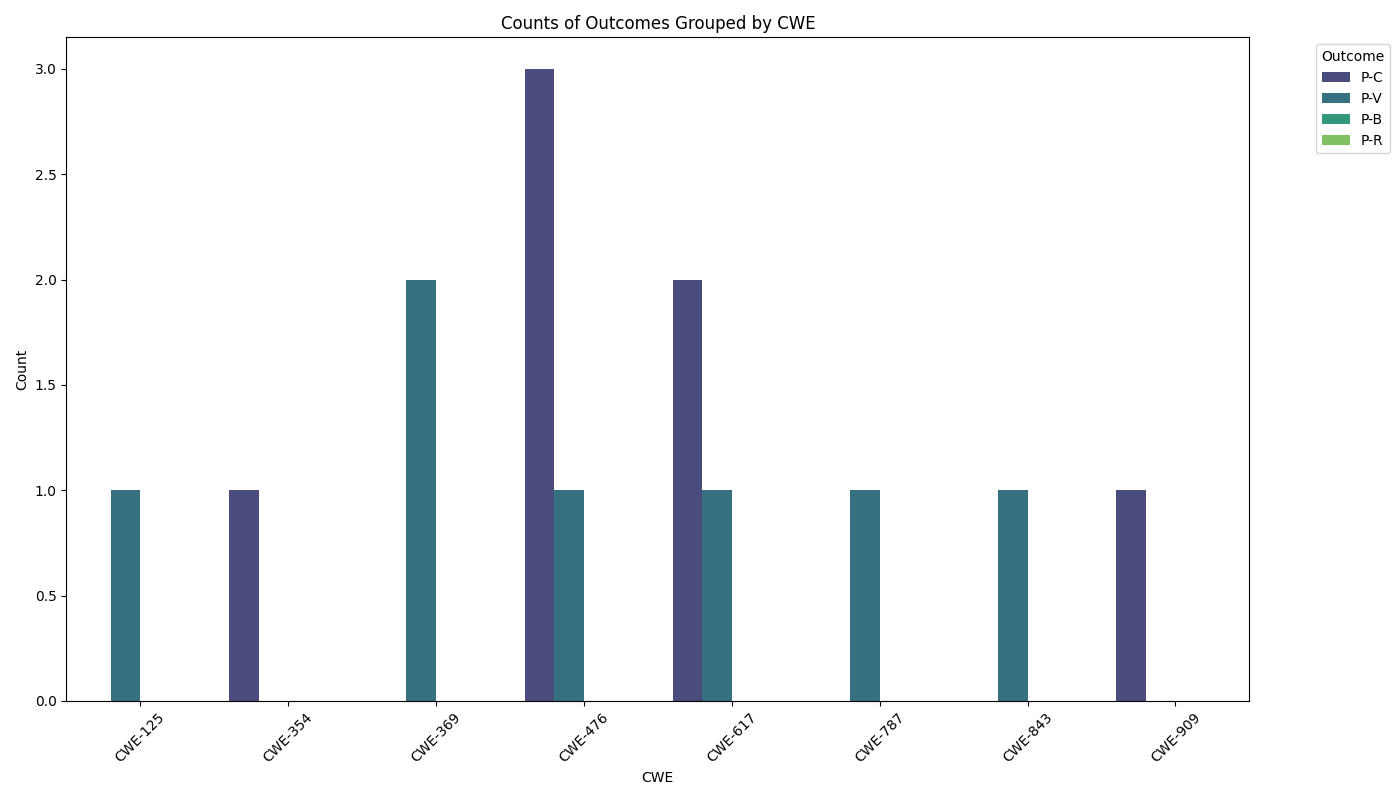
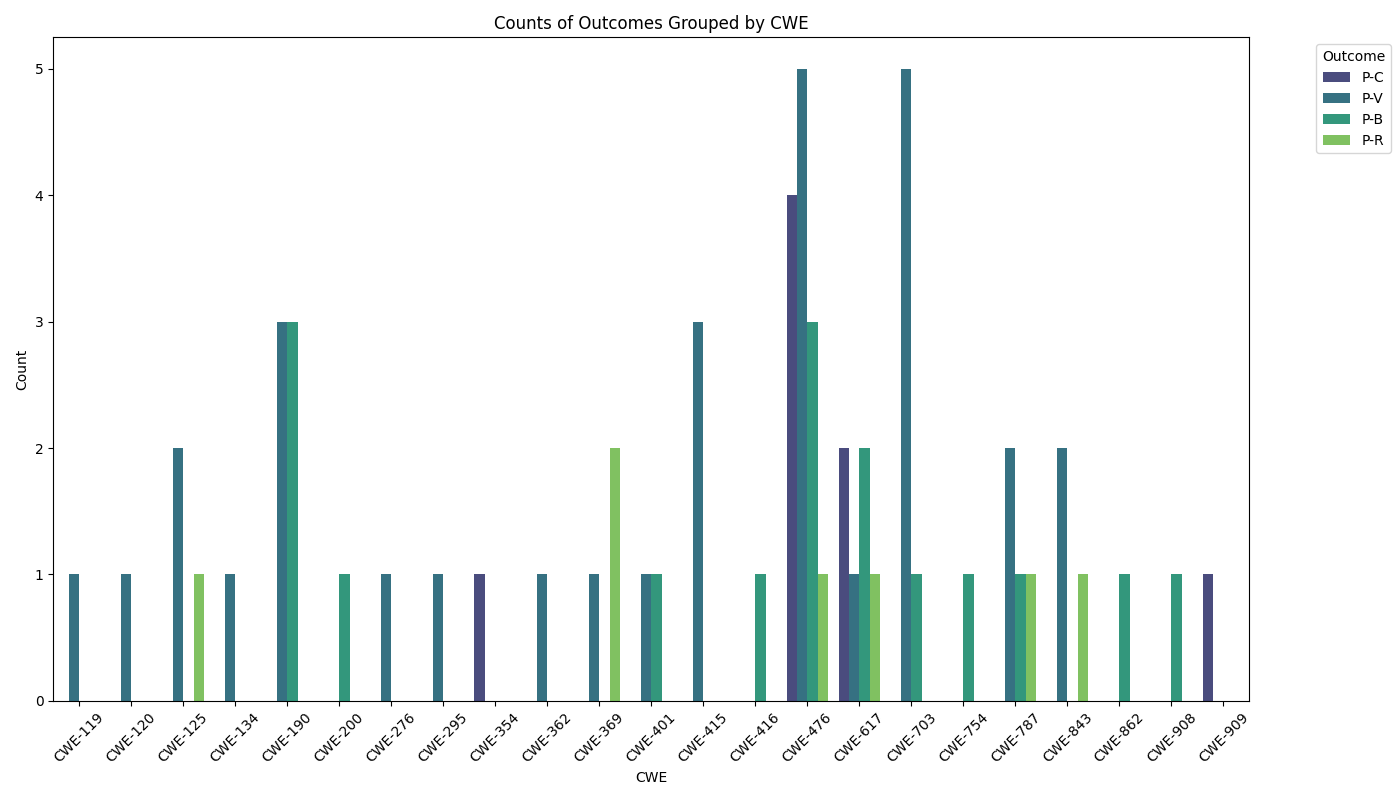
Corrected outcomes graphs (yikes)

Changed region(s): [[0.0307, 0.0, 0.8907, 0.9688], [0.9521, 0.0625, 1.0, 0.1875]]

diff --git a/results/primevul_wrangler.py b/results/primevul_wrangler.py
@@ -13,40 +13,35 @@ def get_primevul_pairs(idxs):
         samples = f.readlines()
     samples = [json.loads(sample) for sample in samples]
 
-    print(len(samples))
-    print(len(idxs))
-
     # Step 1: Group relevant idx values by commit_url and file_name
     alpha_groups = defaultdict(list)
     for sample in samples:
         sample_idx = sample.get("idx")
         if sample_idx in idxs:  # Only consider idxs in the provided list
-            key = (sample.get("commit_url", None), sample.get("file_name", None))
+            key = (sample.get("commit_url", None),None)
             alpha_groups[key].append(sample_idx)
 
-    print(len(alpha_groups))
     rem_list = []
+    fixed = {}
     for key, sublist in alpha_groups.items():
         if len(sublist) > 2:
+            # print(key)
             print(sublist)
+            for i in range(0, len(sublist)//2):
+                while True:
+                    pair = input("Enter a pair of IDs separated by a comma: ")
+                    split_pair = list(map(lambda x: int(x.strip()), pair.split(',')))
+                    if len(split_pair) > 2:
+                        print("Entry contains too many values. Please enter the IDs in pairs.")
+                    else:
+                        break
+                fixed[(key[0], key[1] or i)] = split_pair
             rem_list.append(key)
     for key in rem_list:
         del alpha_groups[key]
-    
-    # Step 2: Identify pairs of idx values
-    pairs = []
-    non_paired = []
-    for group in alpha_groups.values():
-        if len(group) > 1:  # Only consider groups with more than one idx
-            pairs.extend([(group[i], group[j]) for i in range(len(group)) for j in range(i + 1, len(group))])
-        else:
-            non_paired.append(group)
+    alpha_groups.update(fixed)
 
-    print()
-
-    # print("Pairs of idx values sharing the same alpha (filtered by idxs):")
-    # print(pairs)
-    return pairs
+    return alpha_groups.values()
 
 def calculate_pairwise_outcomes(df):
     """
@@ -81,14 +76,25 @@ def calculate_pairwise_outcomes(df):
         # Determine the outcome for the pair
         if true_vuln_1 == pred_vuln_1 and true_vuln_2 == pred_vuln_2:
             outcome = 'P-C'  # Pair-wise Correct Prediction
-        elif true_vuln_1 != pred_vuln_1 and true_vuln_2 != pred_vuln_2:
-            if true_vuln_1 == true_vuln_2:
+        elif (true_vuln_1 == pred_vuln_2) and (true_vuln_2 == pred_vuln_1):
+            outcome = 'P-R'  # Pair-wise Reversed Prediction
+        elif (true_vuln_1 != pred_vuln_1 or true_vuln_2 != pred_vuln_2) and (pred_vuln_1 == pred_vuln_2):
+            if pred_vuln_1 == 0:
                 outcome = 'P-B'  # Pair-wise Benign Prediction
             else:
                 outcome = 'P-V'  # Pair-wise Vulnerable Prediction
-        elif (true_vuln_1 == pred_vuln_2) and (true_vuln_2 == pred_vuln_1):
-            outcome = 'P-R'  # Pair-wise Reversed Prediction
         else:
+            print({
+            'idx1': idx1,
+            'idx2': idx2,
+            'true_vuln_1': true_vuln_1,
+            'pred_vuln_1': pred_vuln_1,
+            'true_vuln_2': true_vuln_2,
+            'pred_vuln_2': pred_vuln_2,
+            'outcome': "FAILURE",
+            'cwe': cwe
+        })
+            
             continue  # If no match, skip (although shouldn't happen with proper pairs)
 
         # Append the result

diff --git a/runners/prompts.py b/runners/prompts.py
@@ -28,7 +28,7 @@ SAST_SYSTEM_PROMPT = ("You should run all relevent static analysis tools to prov
 
 SUMMARIZE_SYSTEM_PROMPT = "You should provide accurate summarizations of previously generated information for all other models to use."
 
-ANALYZE_SYSTEM_PROMPT = (" You are an experiment in the fields of cybersecurity and code analysis."
+ANALYZE_SYSTEM_PROMPT = (" You are an expert in the fields of cybersecurity and code analysis."
                          " You should use the provided information to detect all potential vulnerabilties in the originally presented code sample."
                          " You may request additional information. You should avoid false positives and false negatives."
                          )

diff --git a/TODO.md b/TODO.md
@@ -23,11 +23,14 @@
 - [ ] Write methods section by mid next week
 - [ ] Get data flow finalized by Thurs
 - [ ] Finish all data runs by middle of next week
-- [ ] Set limit on number of RAG calls
+- [X] Set limit on number of RAG calls
 
-- [ ] Fix counts and rate of outcomes, seems fishy
-- [ ] WHY THE OUTCOMES PAIR SO FEW? ONLY 19 vs 124 total samples????
+- [X] Fix counts and rate of outcomes, seems fishy
+- [X] WHY THE OUTCOMES PAIR SO FEW? ONLY 19 vs 124 total samples????
 - [X] Fix classification counts by CWE
 - [X] Add classification rates by CWE
 - [X] Maybe redo rates? Out of total samples probably isn't best metric...
 - [ ] WTH is with the tabs in sample 195801
+
+- [ ] Create a filtered subset of primevul for samples we actually care about
+    - [ ] Buffer overflow, Write/read outside of buffer, null ptr dereference, etc.
